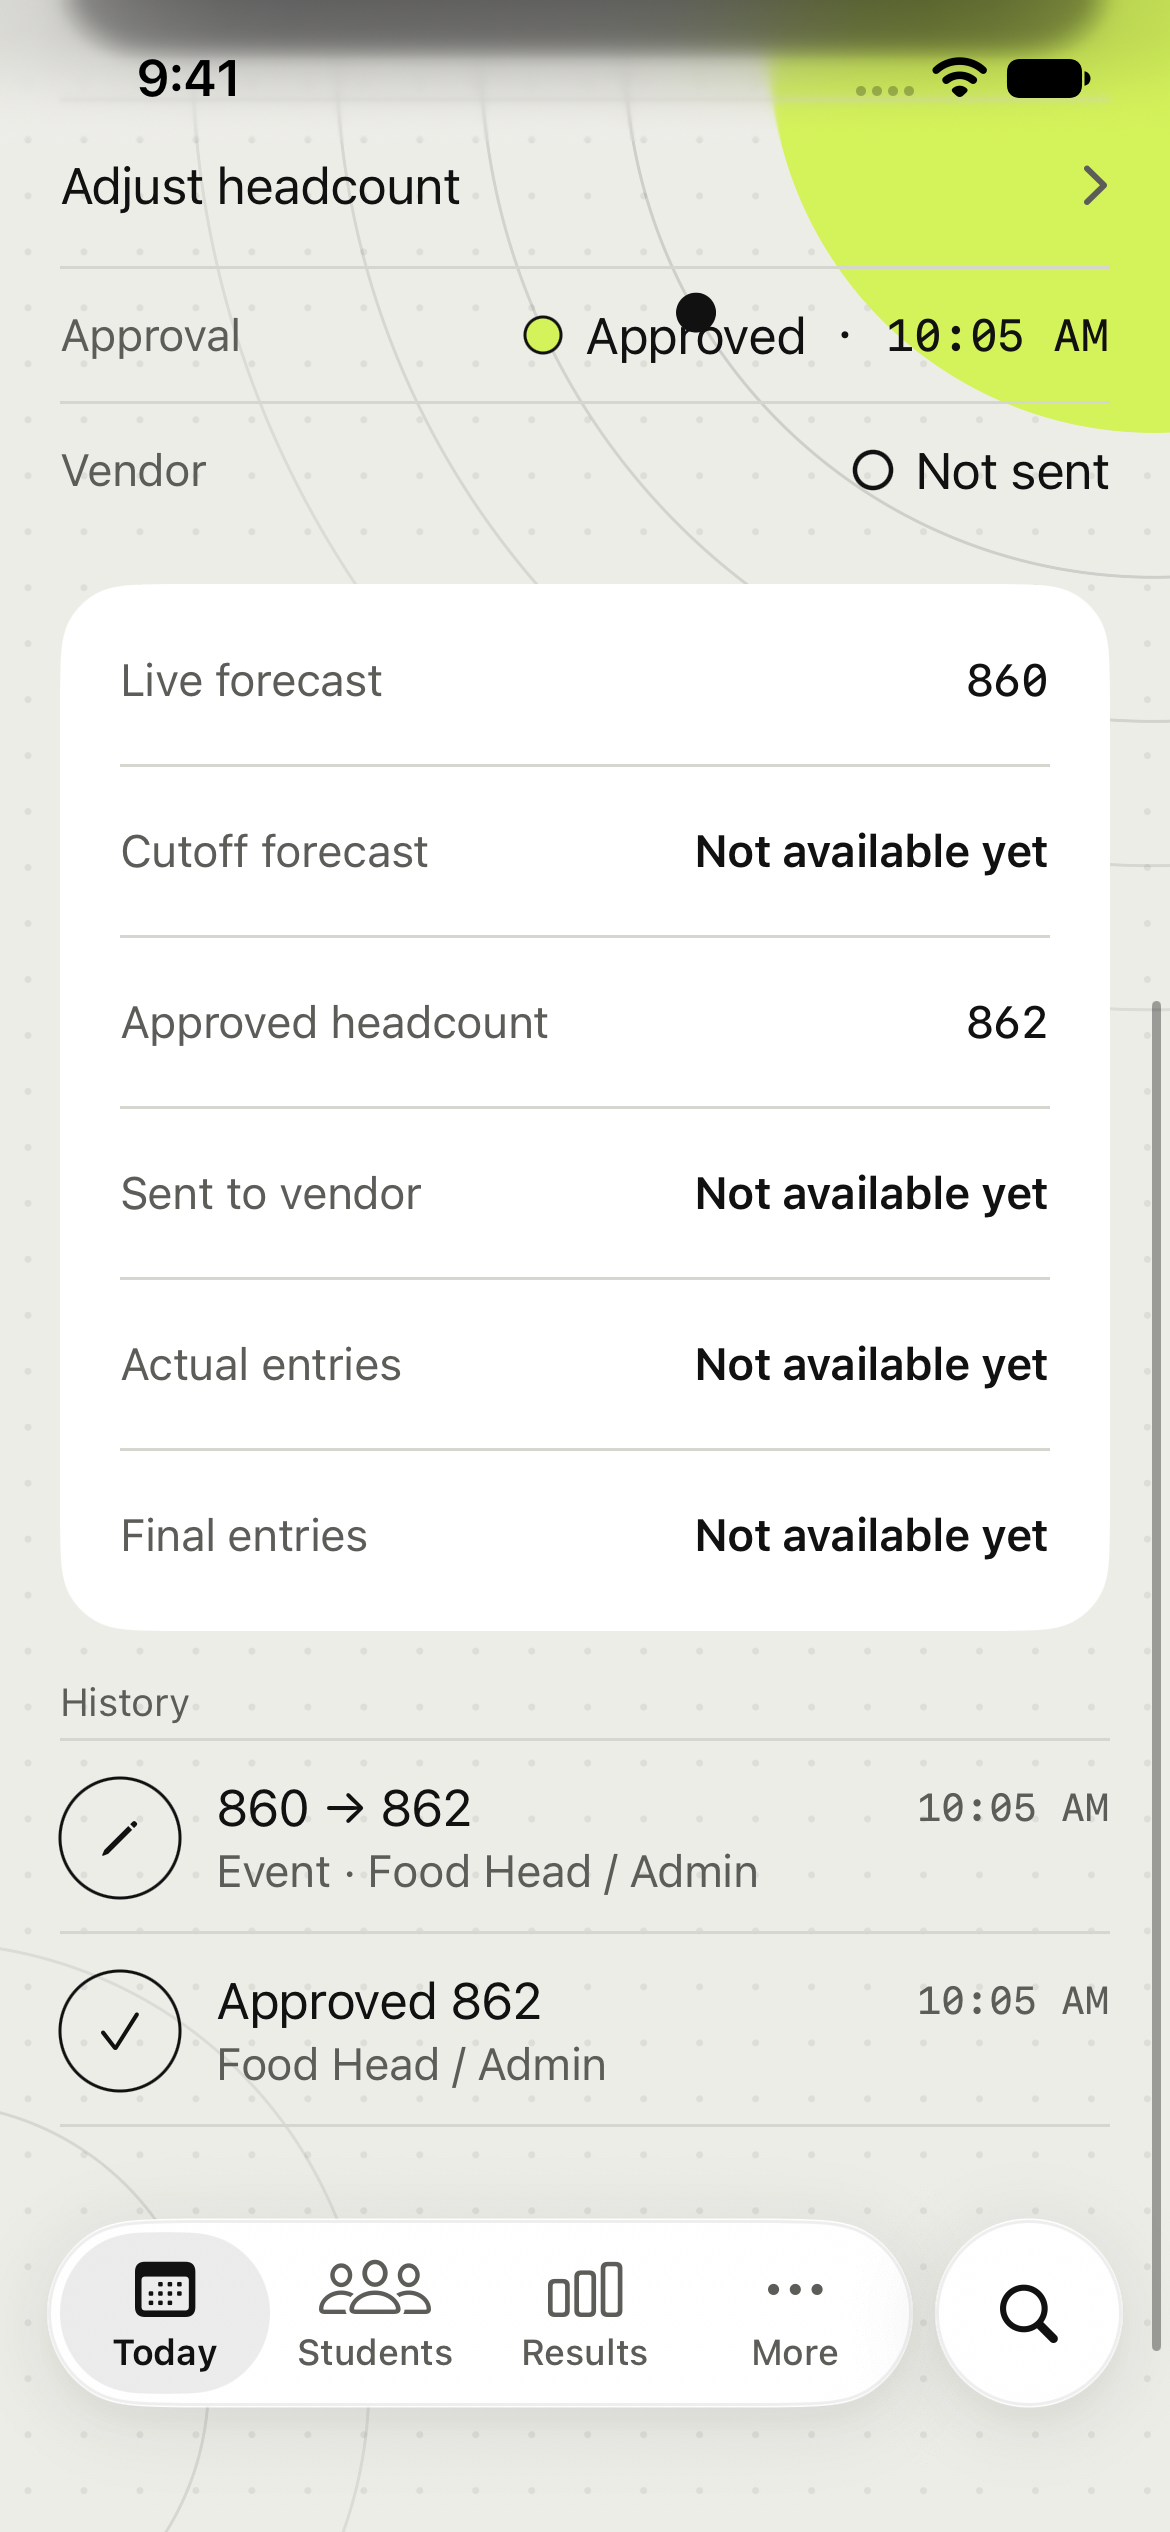
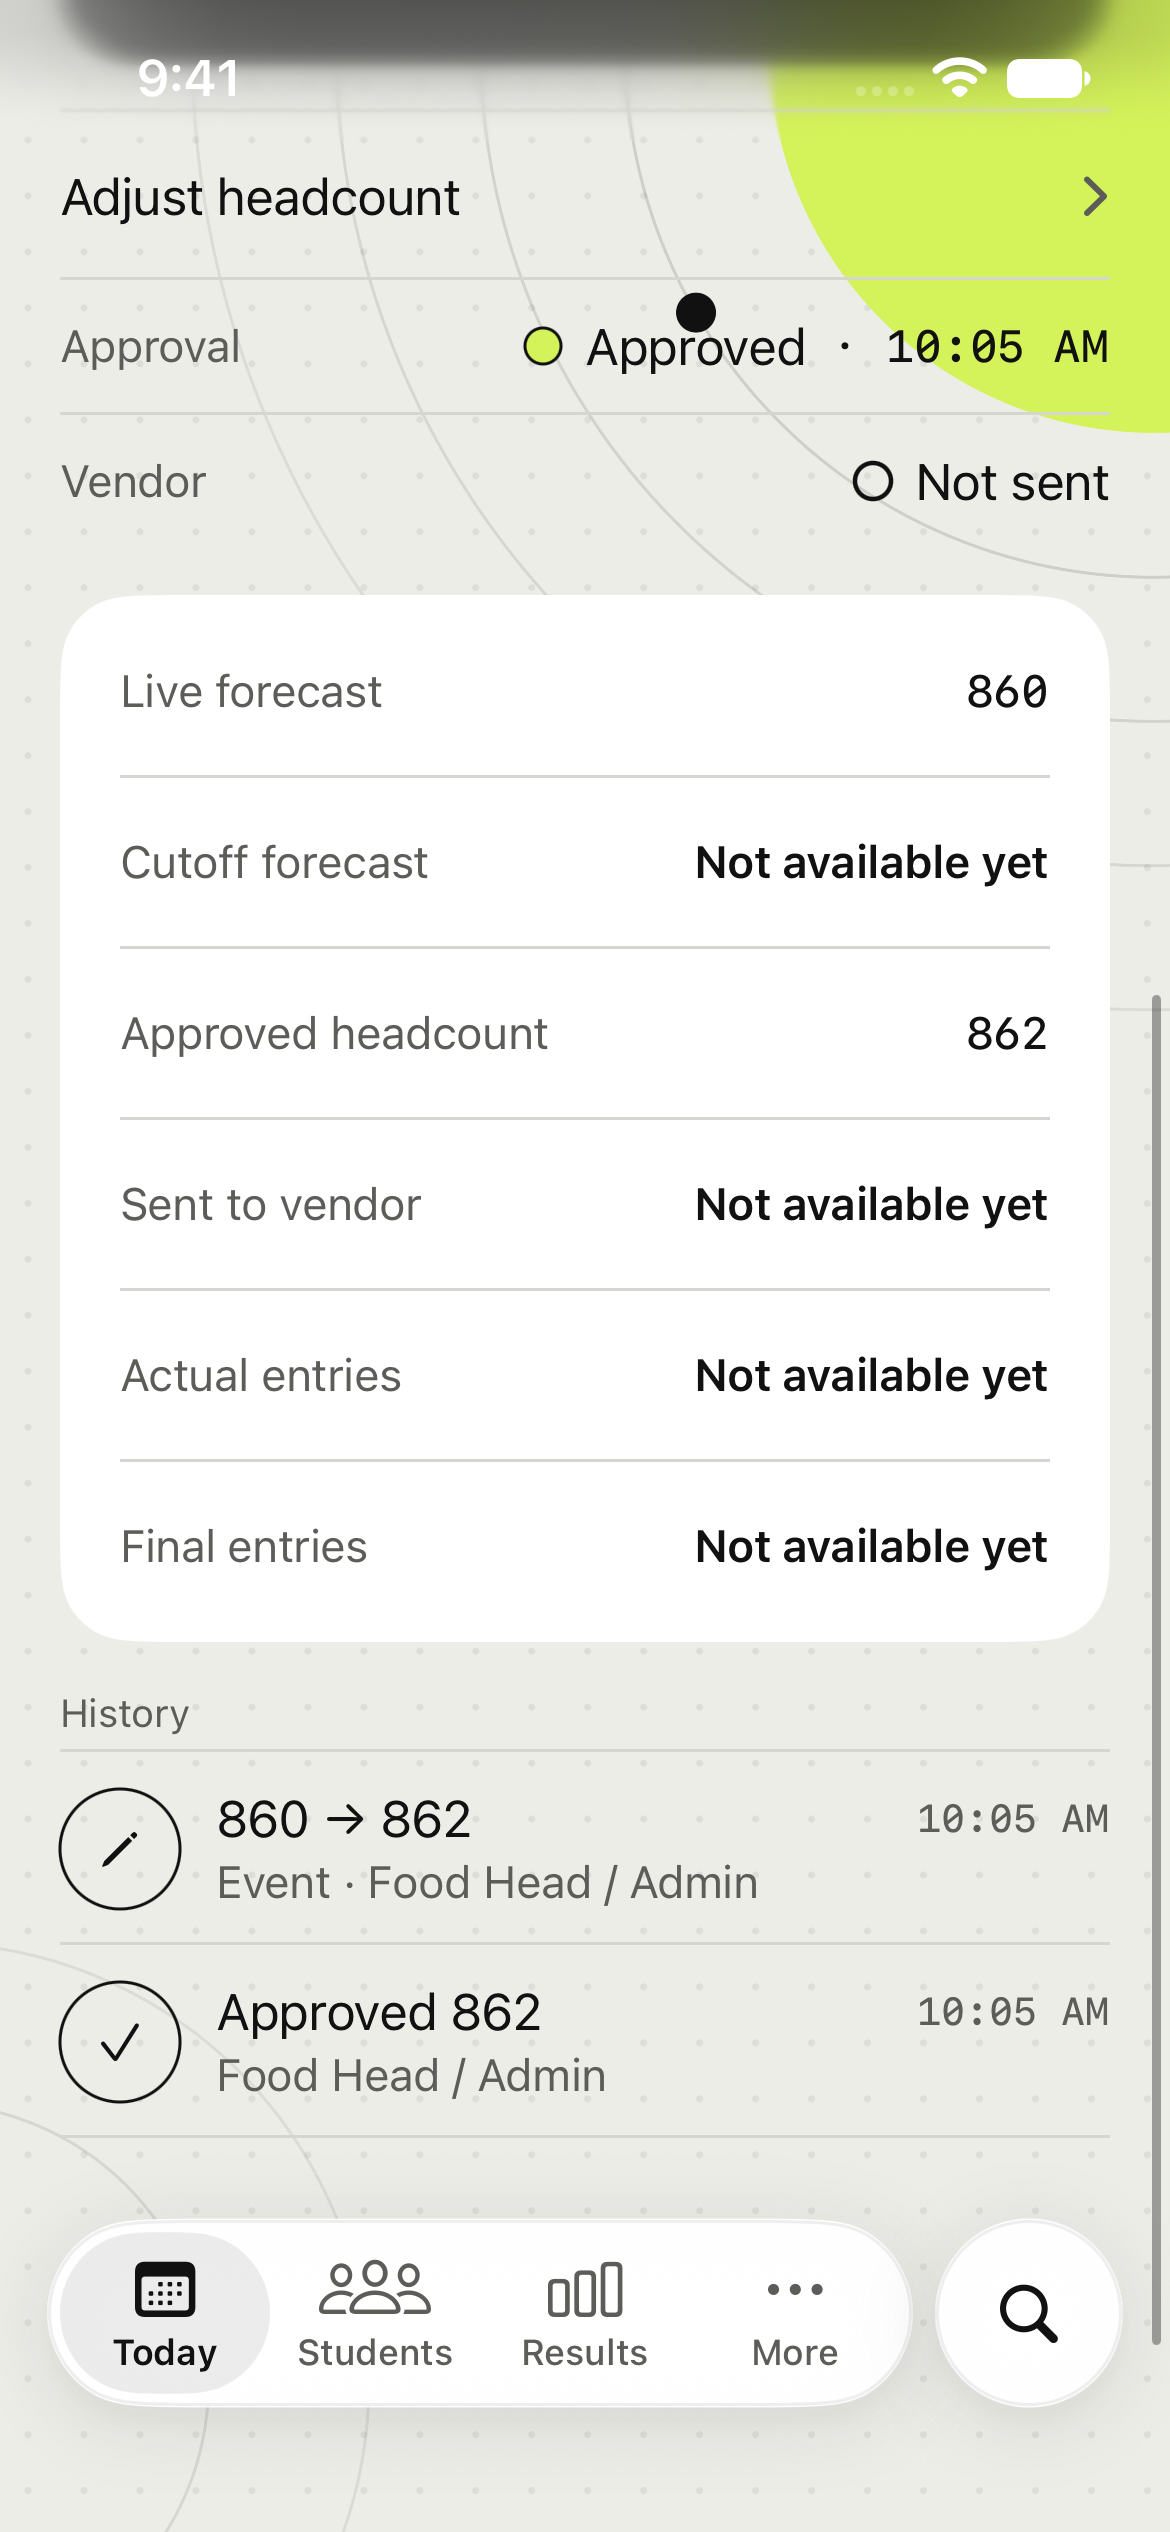
docs(verification): retake the Admin screenshots on the merged base

diff --git a/docs/verification/admin-today/REPORT.md b/docs/verification/admin-today/REPORT.md
@@ -12,9 +12,9 @@ After merging the updated base (5a12c53, the Supervisor work):
 | Review, same device | 0 | 216 | 212 | 0 | 4 |
 | Release build | 0 | n/a | n/a | n/a | n/a |
 
-The 4 skipped tests arrived with the merge; they were not skipped in the run below. Before the merge, from clean builds on a4ae9c7: Debug 175 of 175, Review 174 of 174, 0 skipped, Release built. The baseline was 145 and 144, so this adds 30 tests in `AdminTodayViewModelTests.swift`. The race test was confirmed to fail with its guard removed.
+The 4 skipped tests are all in `SupervisorScreenshotTests` (`testCaptureHome`, `testCaptureAlertsShortageAndMe`, `testCaptureSOS`, `testCaptureWasteAndHistory`). They arrived with the merge and only run when their environment variable is set. Before the merge, from clean builds on a4ae9c7: Debug 175 of 175, Review 174 of 174, 0 skipped, Release built. The baseline was 145 and 144, so this adds 30 tests in `AdminTodayViewModelTests.swift`. The race test was confirmed to fail with its guard removed.
 
-The base moved during this work. The merge changed no Admin file, but `SOSRepository` gained `raise`, so the test stub was updated. **The walk and screenshots below were taken before the merge and were not repeated.**
+The base moved during this work. The merge changed no Admin file, but `SOSRepository` gained `raise`, so the test stub was updated. The walk and screenshots below were repeated on the merged code.
 
 **Simulator walk:** six walks passed on iPhone 17e (iOS 27.2, `small/`) and iPhone 18 Pro Max (iOS 27.0, `large/`), 33 screenshots each. They were driven by a temporary XCUITest target in a scratch copy, which is not in this repository. That copy also removed the system Save Password prompt, which otherwise covers the app after sign-in.
 
